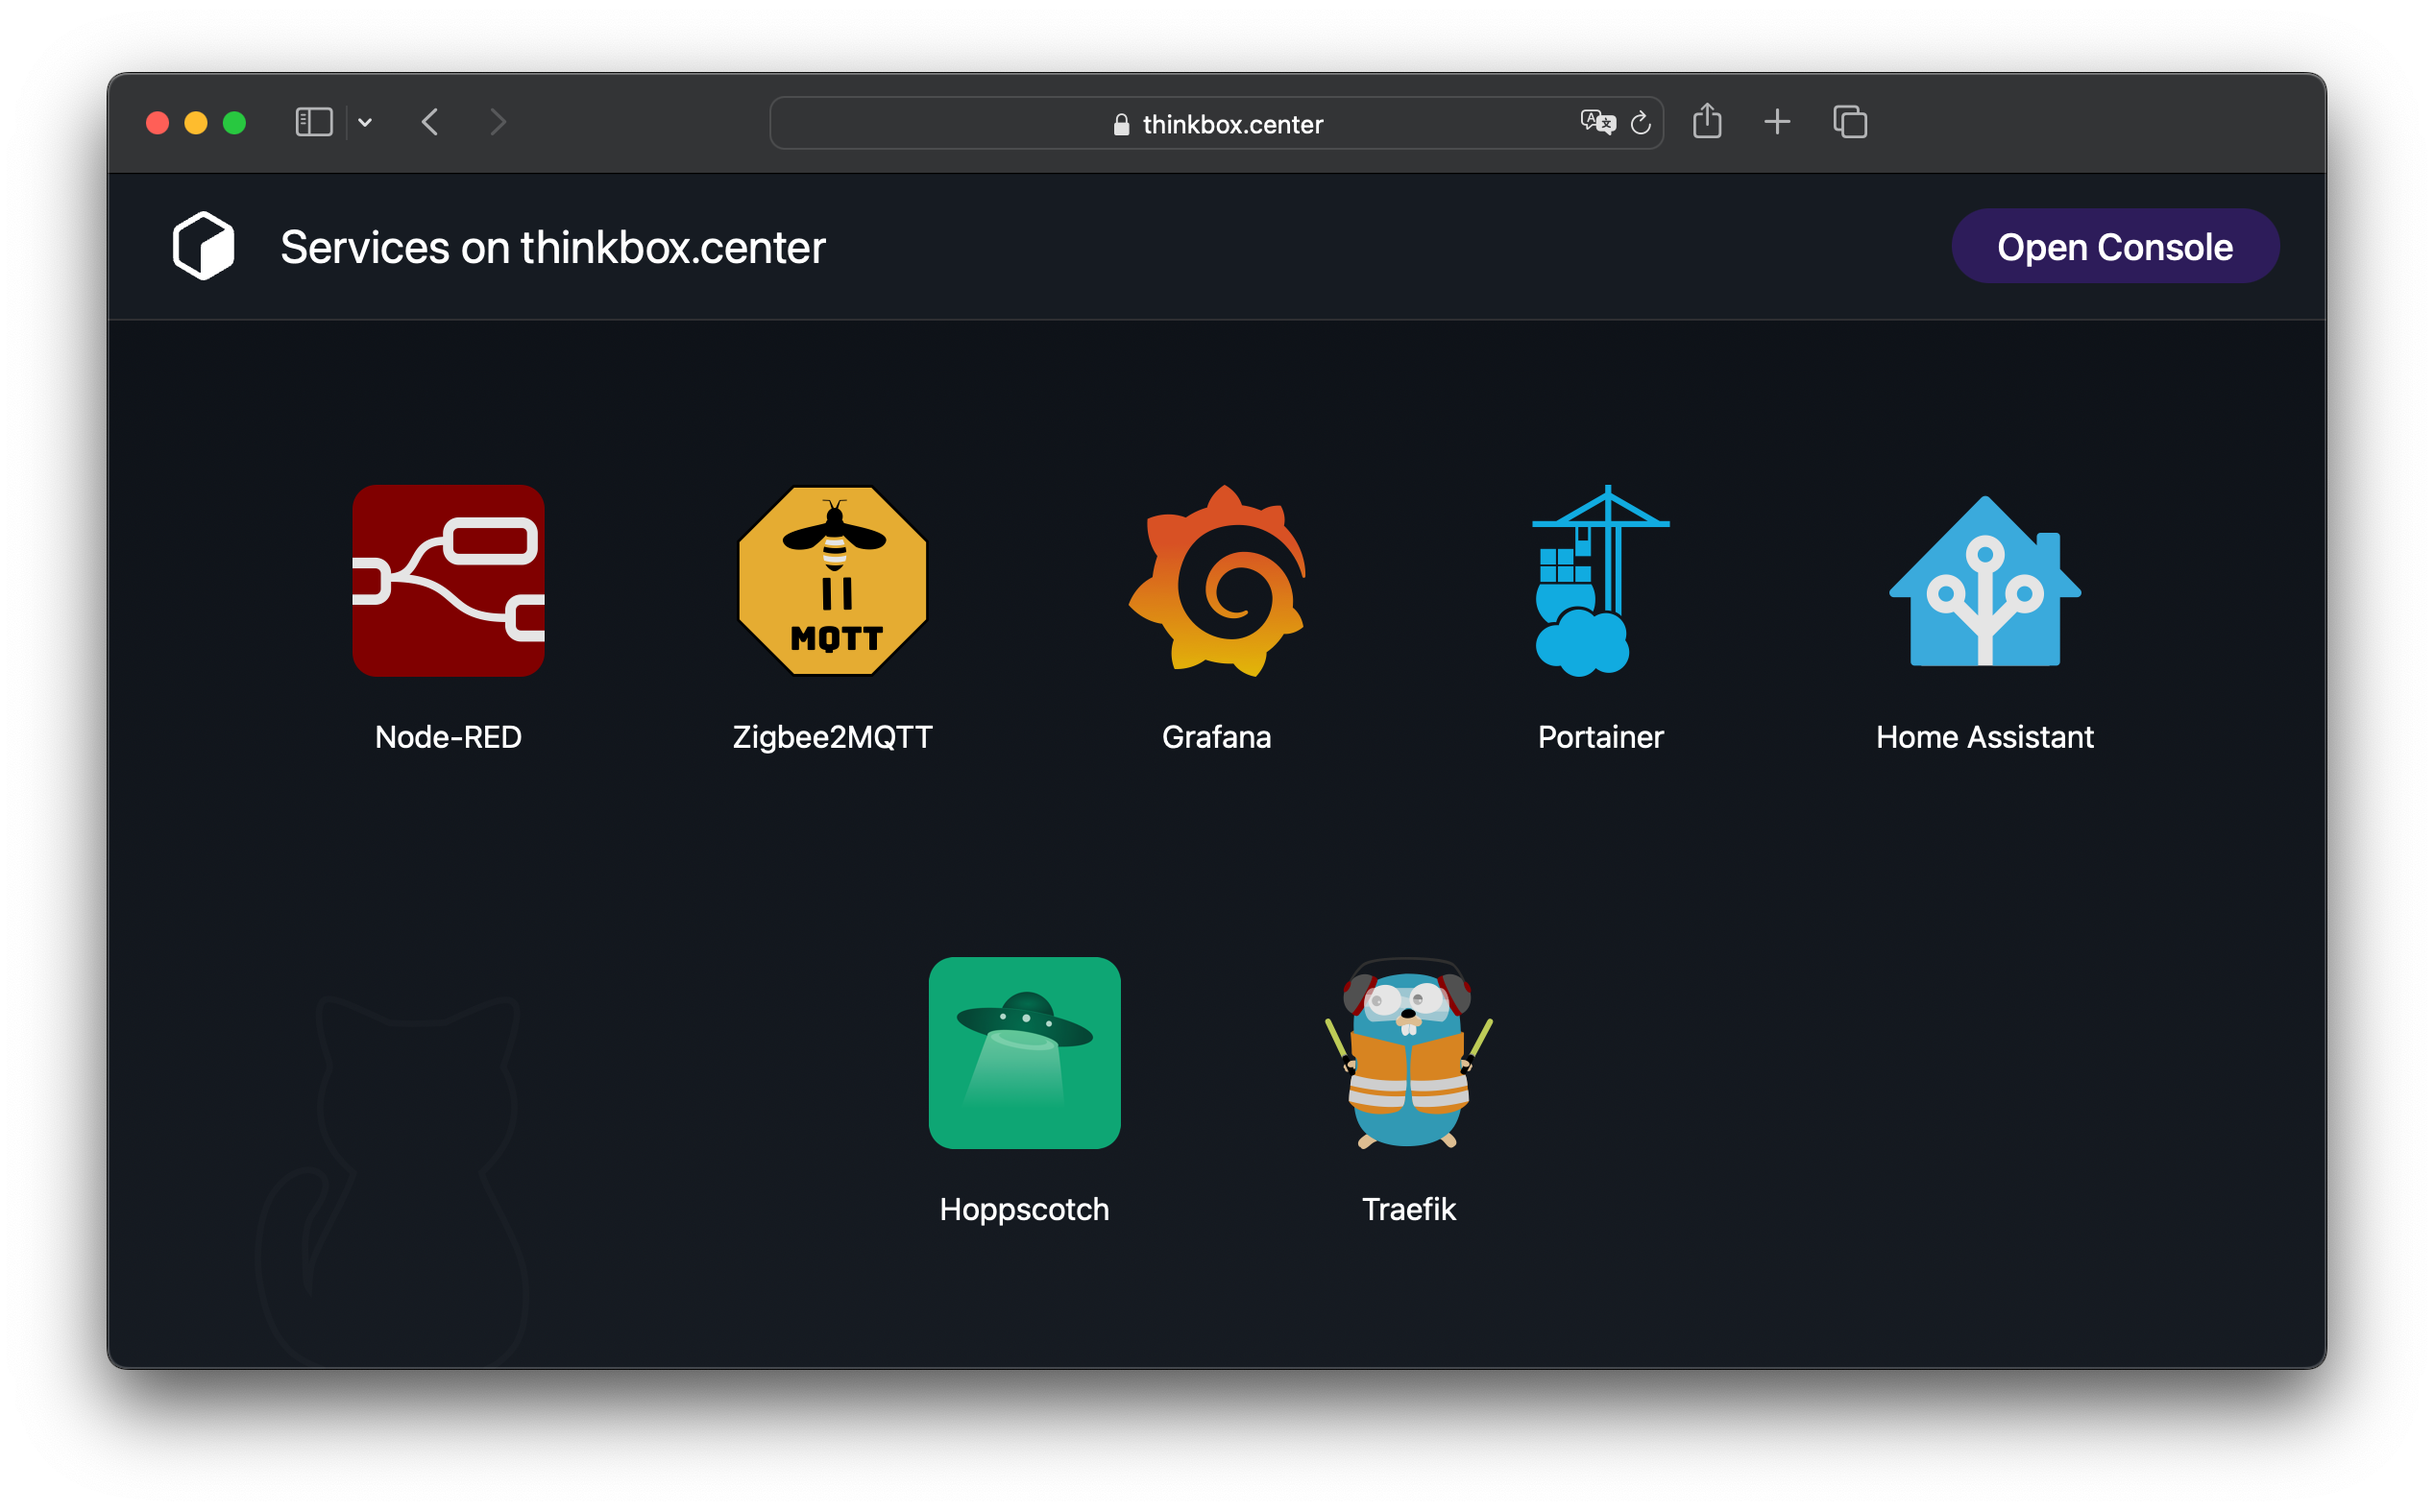
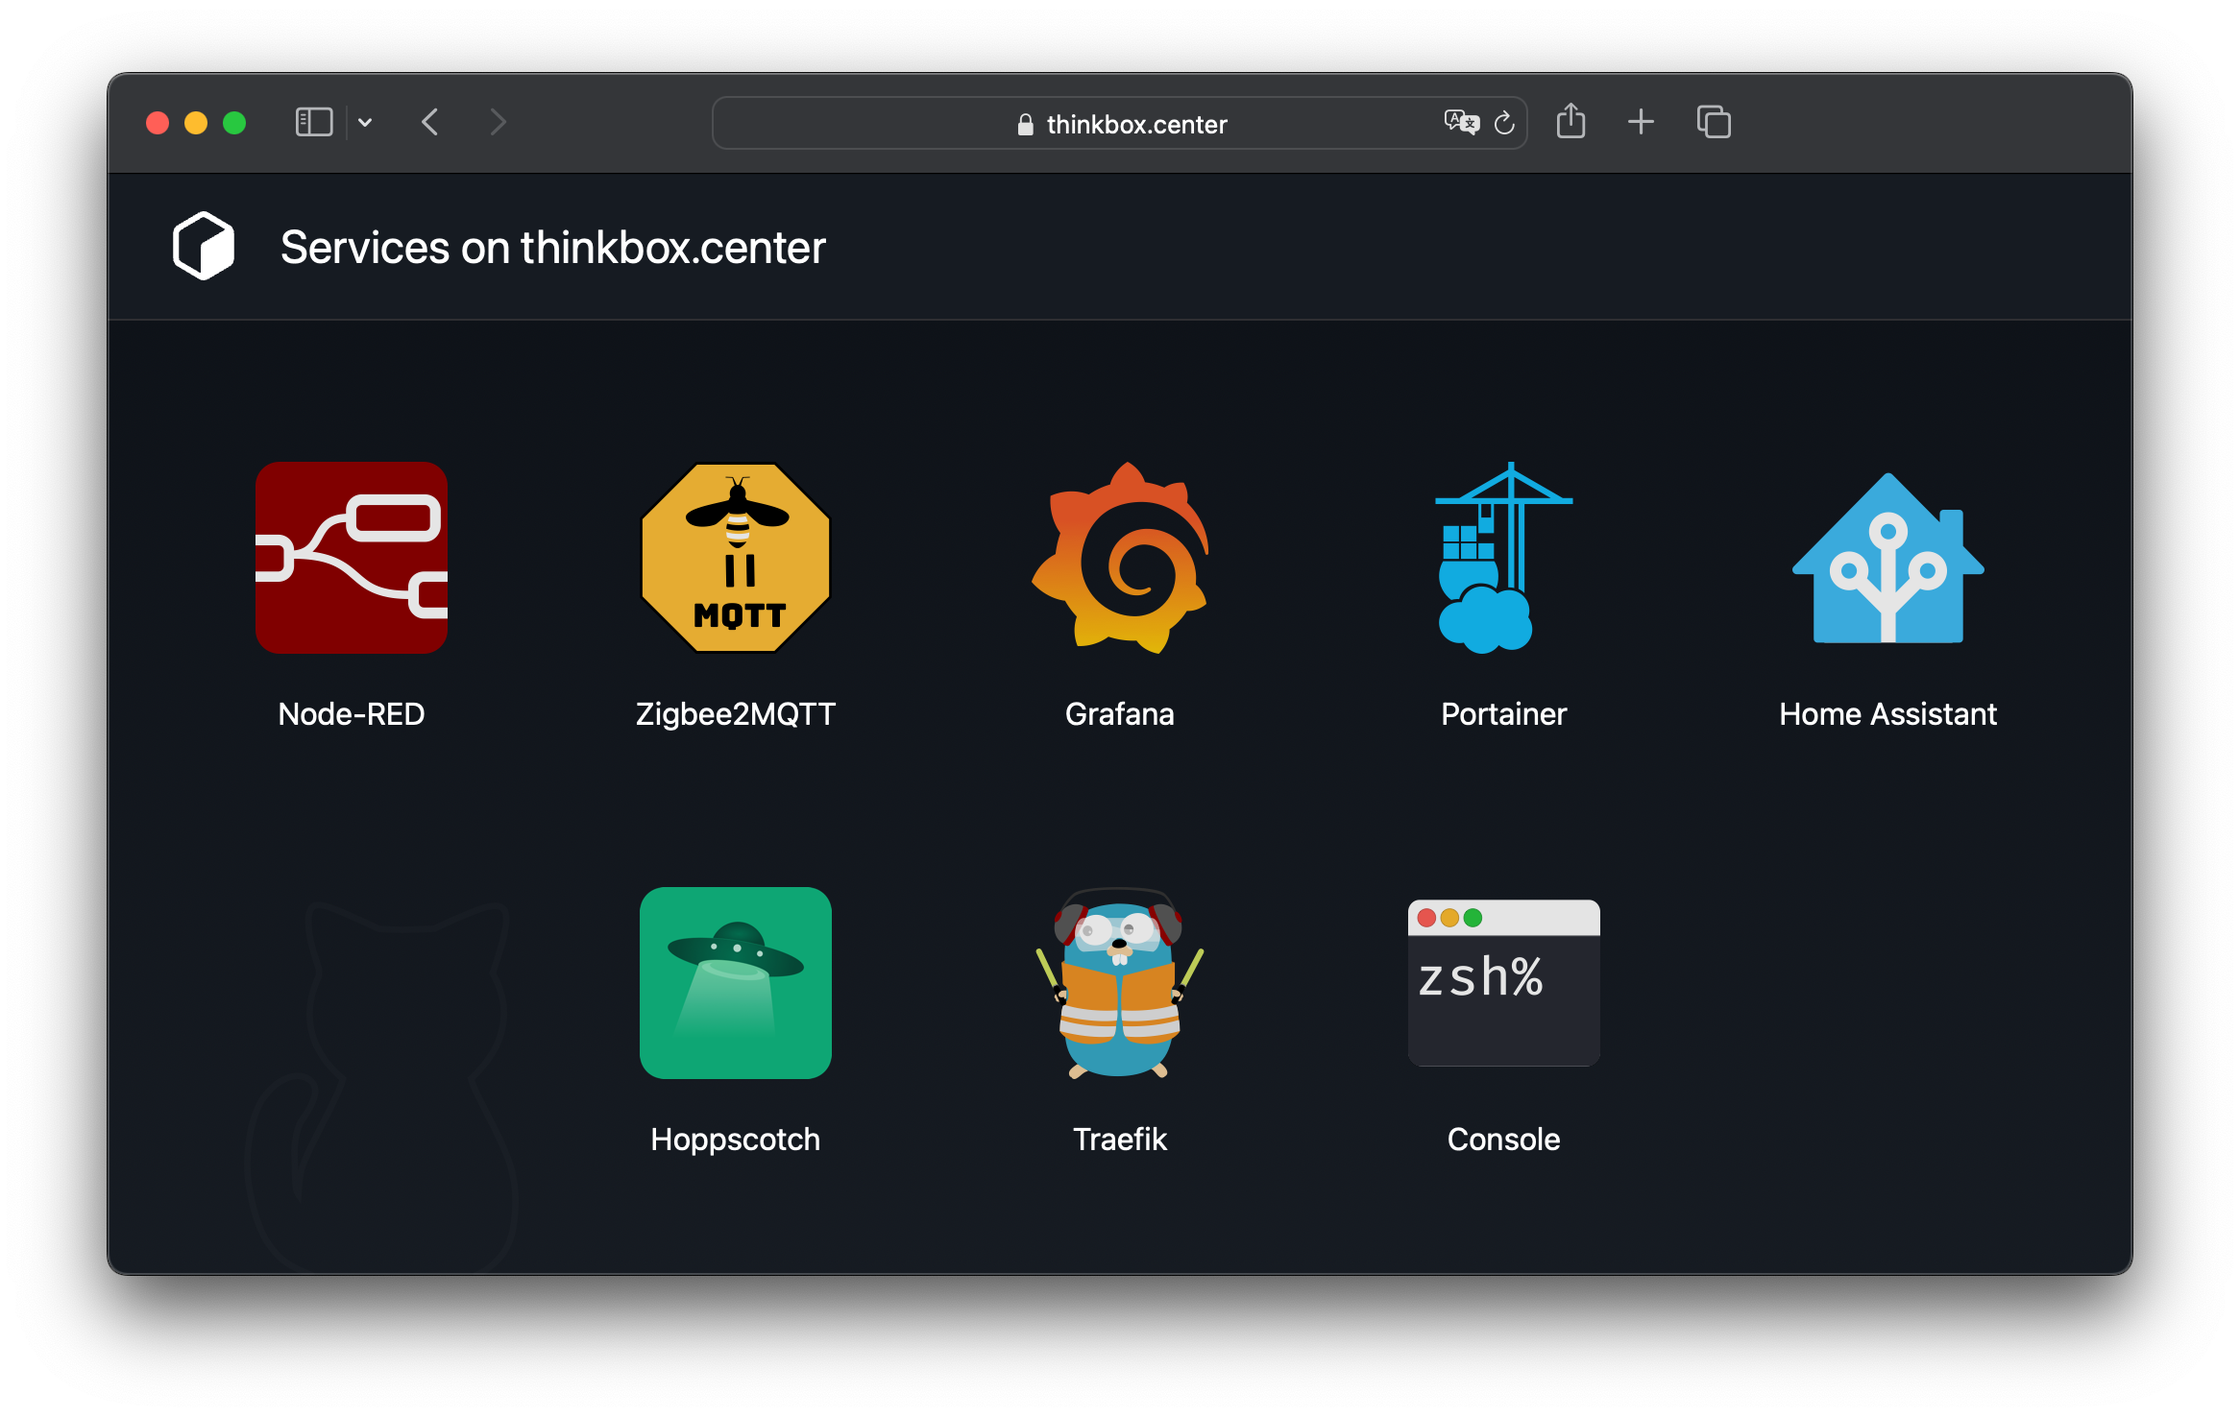
README updated.

diff --git a/README.md b/README.md
@@ -80,13 +80,15 @@ When you fork this page, modify the `.well-known/security.txt` file. This file c
 
 With [this page](https://securitytxt.org/) you can create your own `security.txt` according to the current standard.
 
-### Button
+### Handlers
 
-Using the button `Open Console` to open an **SSH connection** from the browser works out-of-box on Linux and macOS. For Windows, a registry entry is required, e.g. pointing to the Windows terminal. This button is hidden on small screens.
+If you want to use the `Console` item to open an **SSH connection**, it works out of the box on Linux and macOS. For Windows, a registry entry is required, pointing to the Windows terminal, for example.
 
 The shell handler looks like this: `ssh://console.thinkbox.center`
 
-> Because no username is defined in the url, your current one will be used.
+> Since there is no username defined in the url, your current username will be used for the SSH connection.
+
+> Use [Swift Default Apps](https://formulae.brew.sh/cask/swiftdefaultappsprefpane) on macOS to change the default terminal application.
 
 ### Modifications
 
